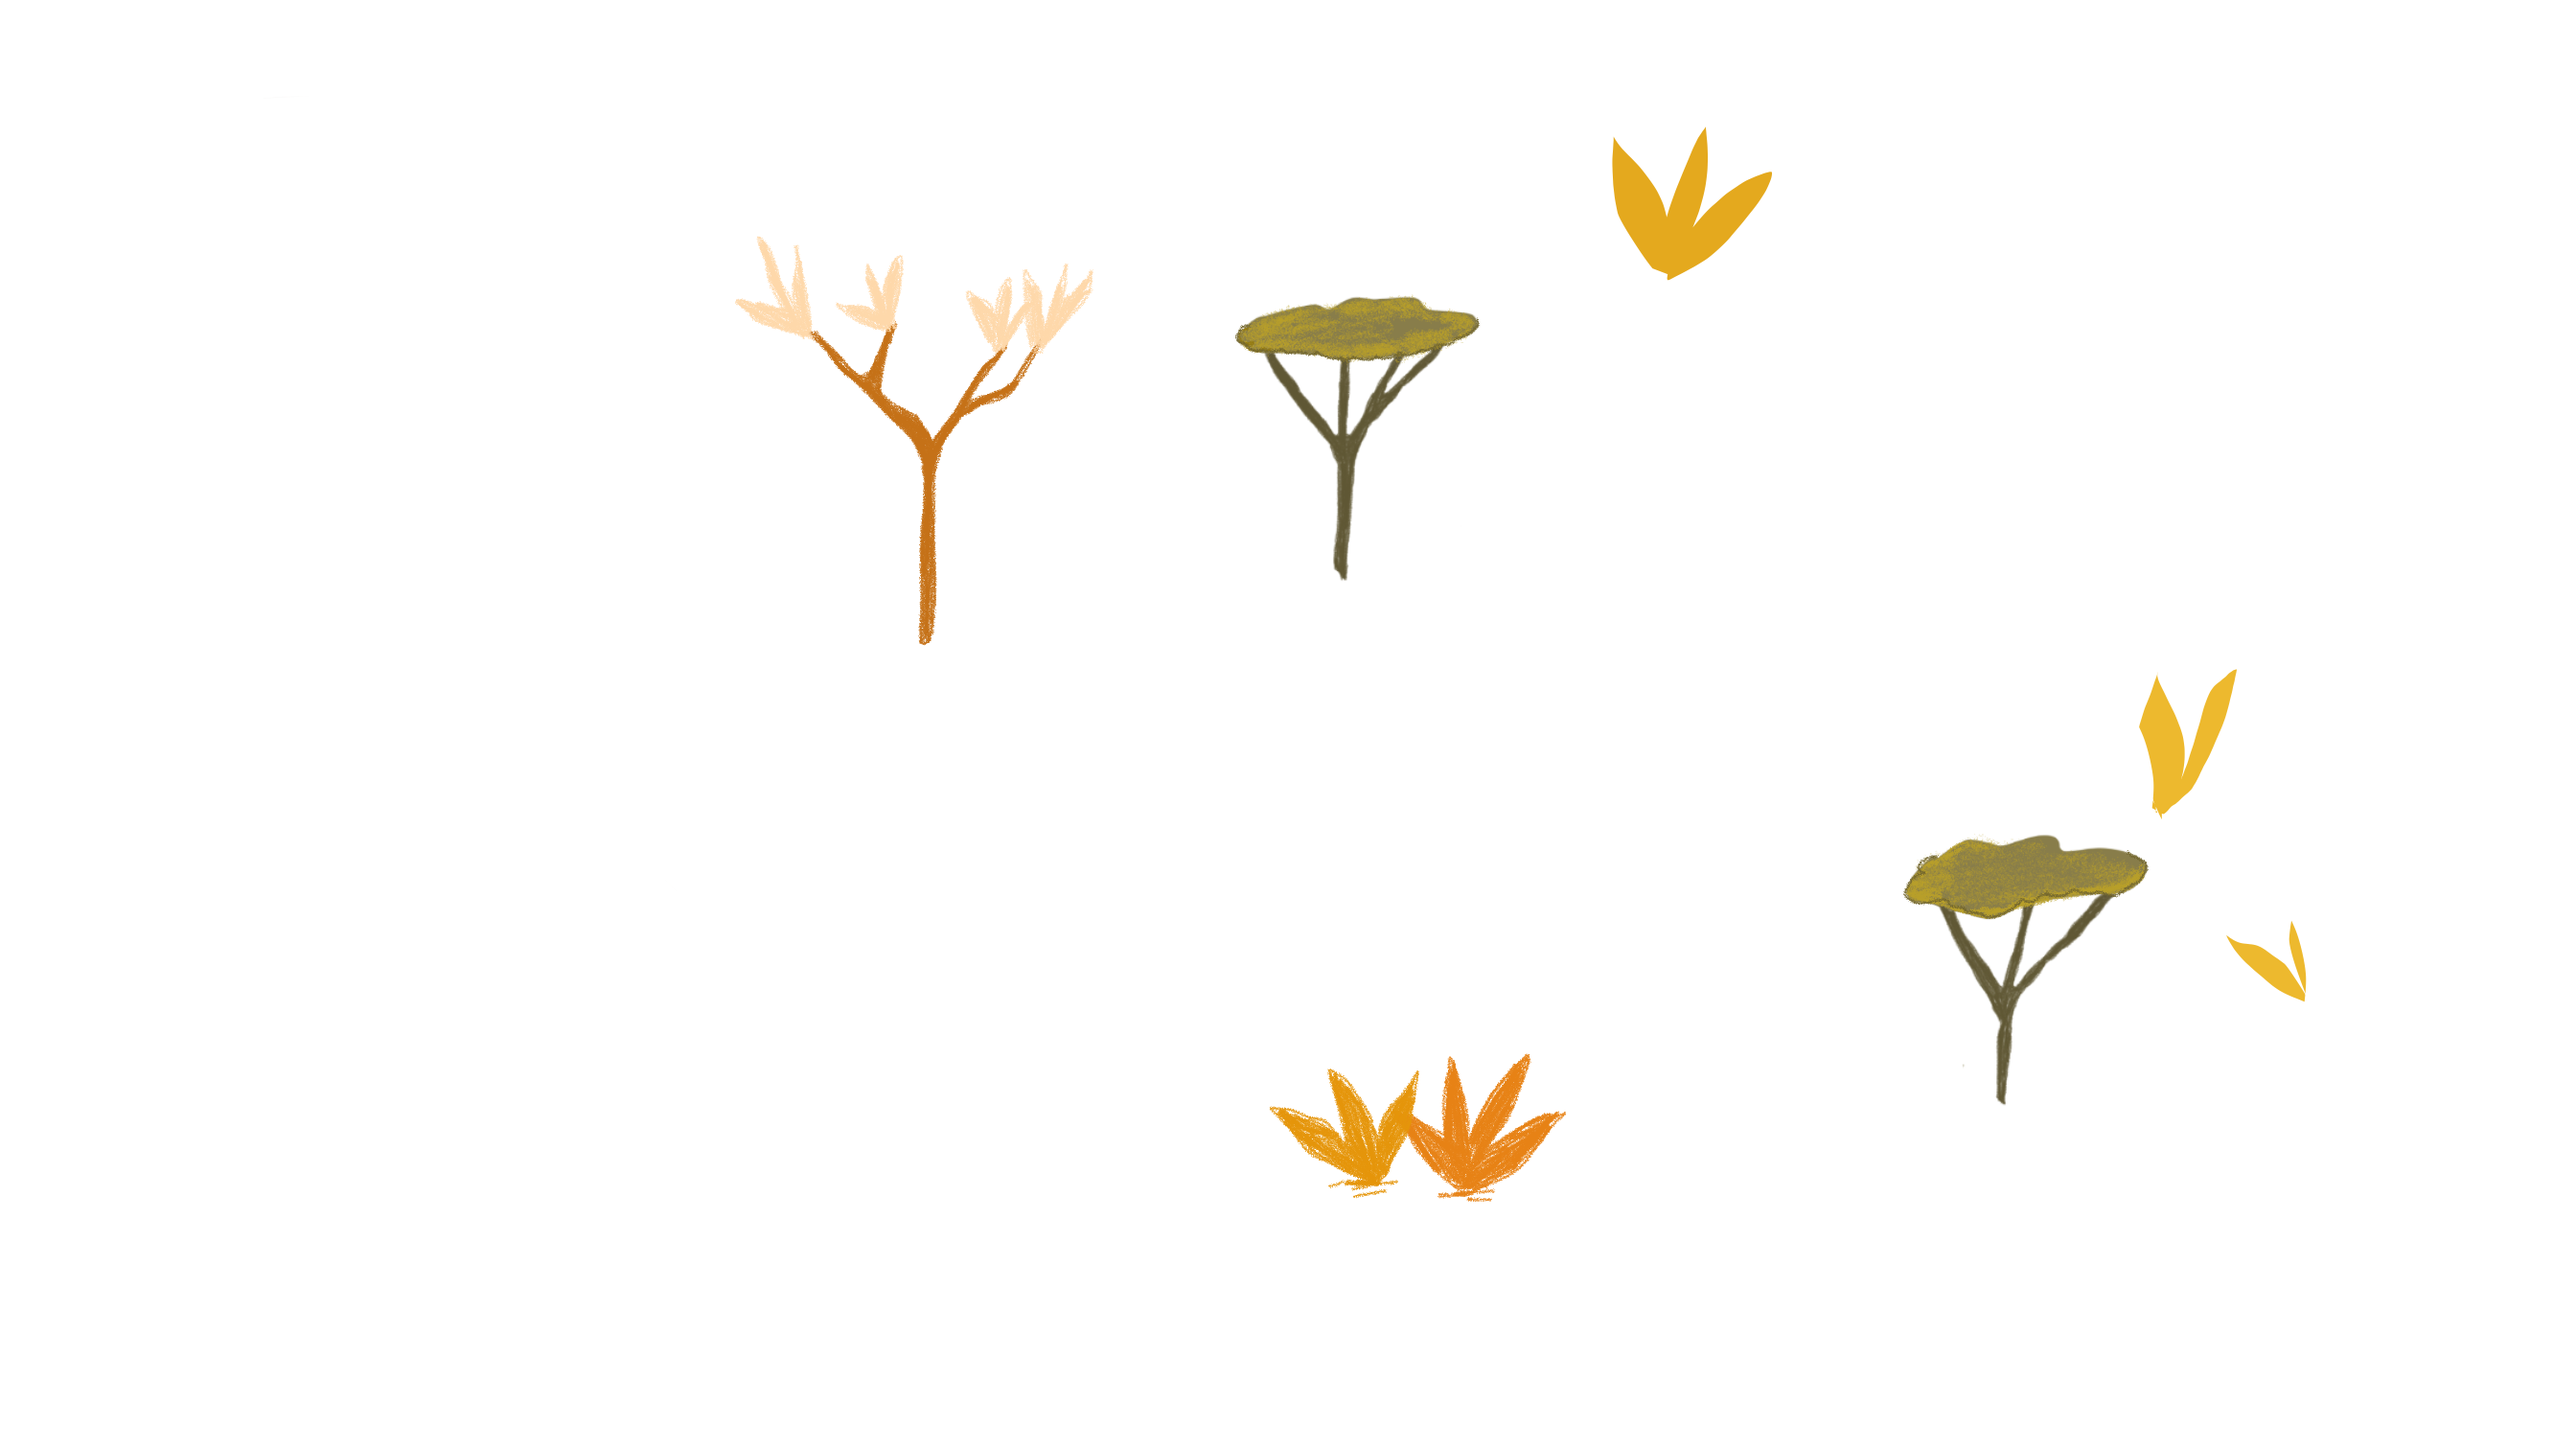
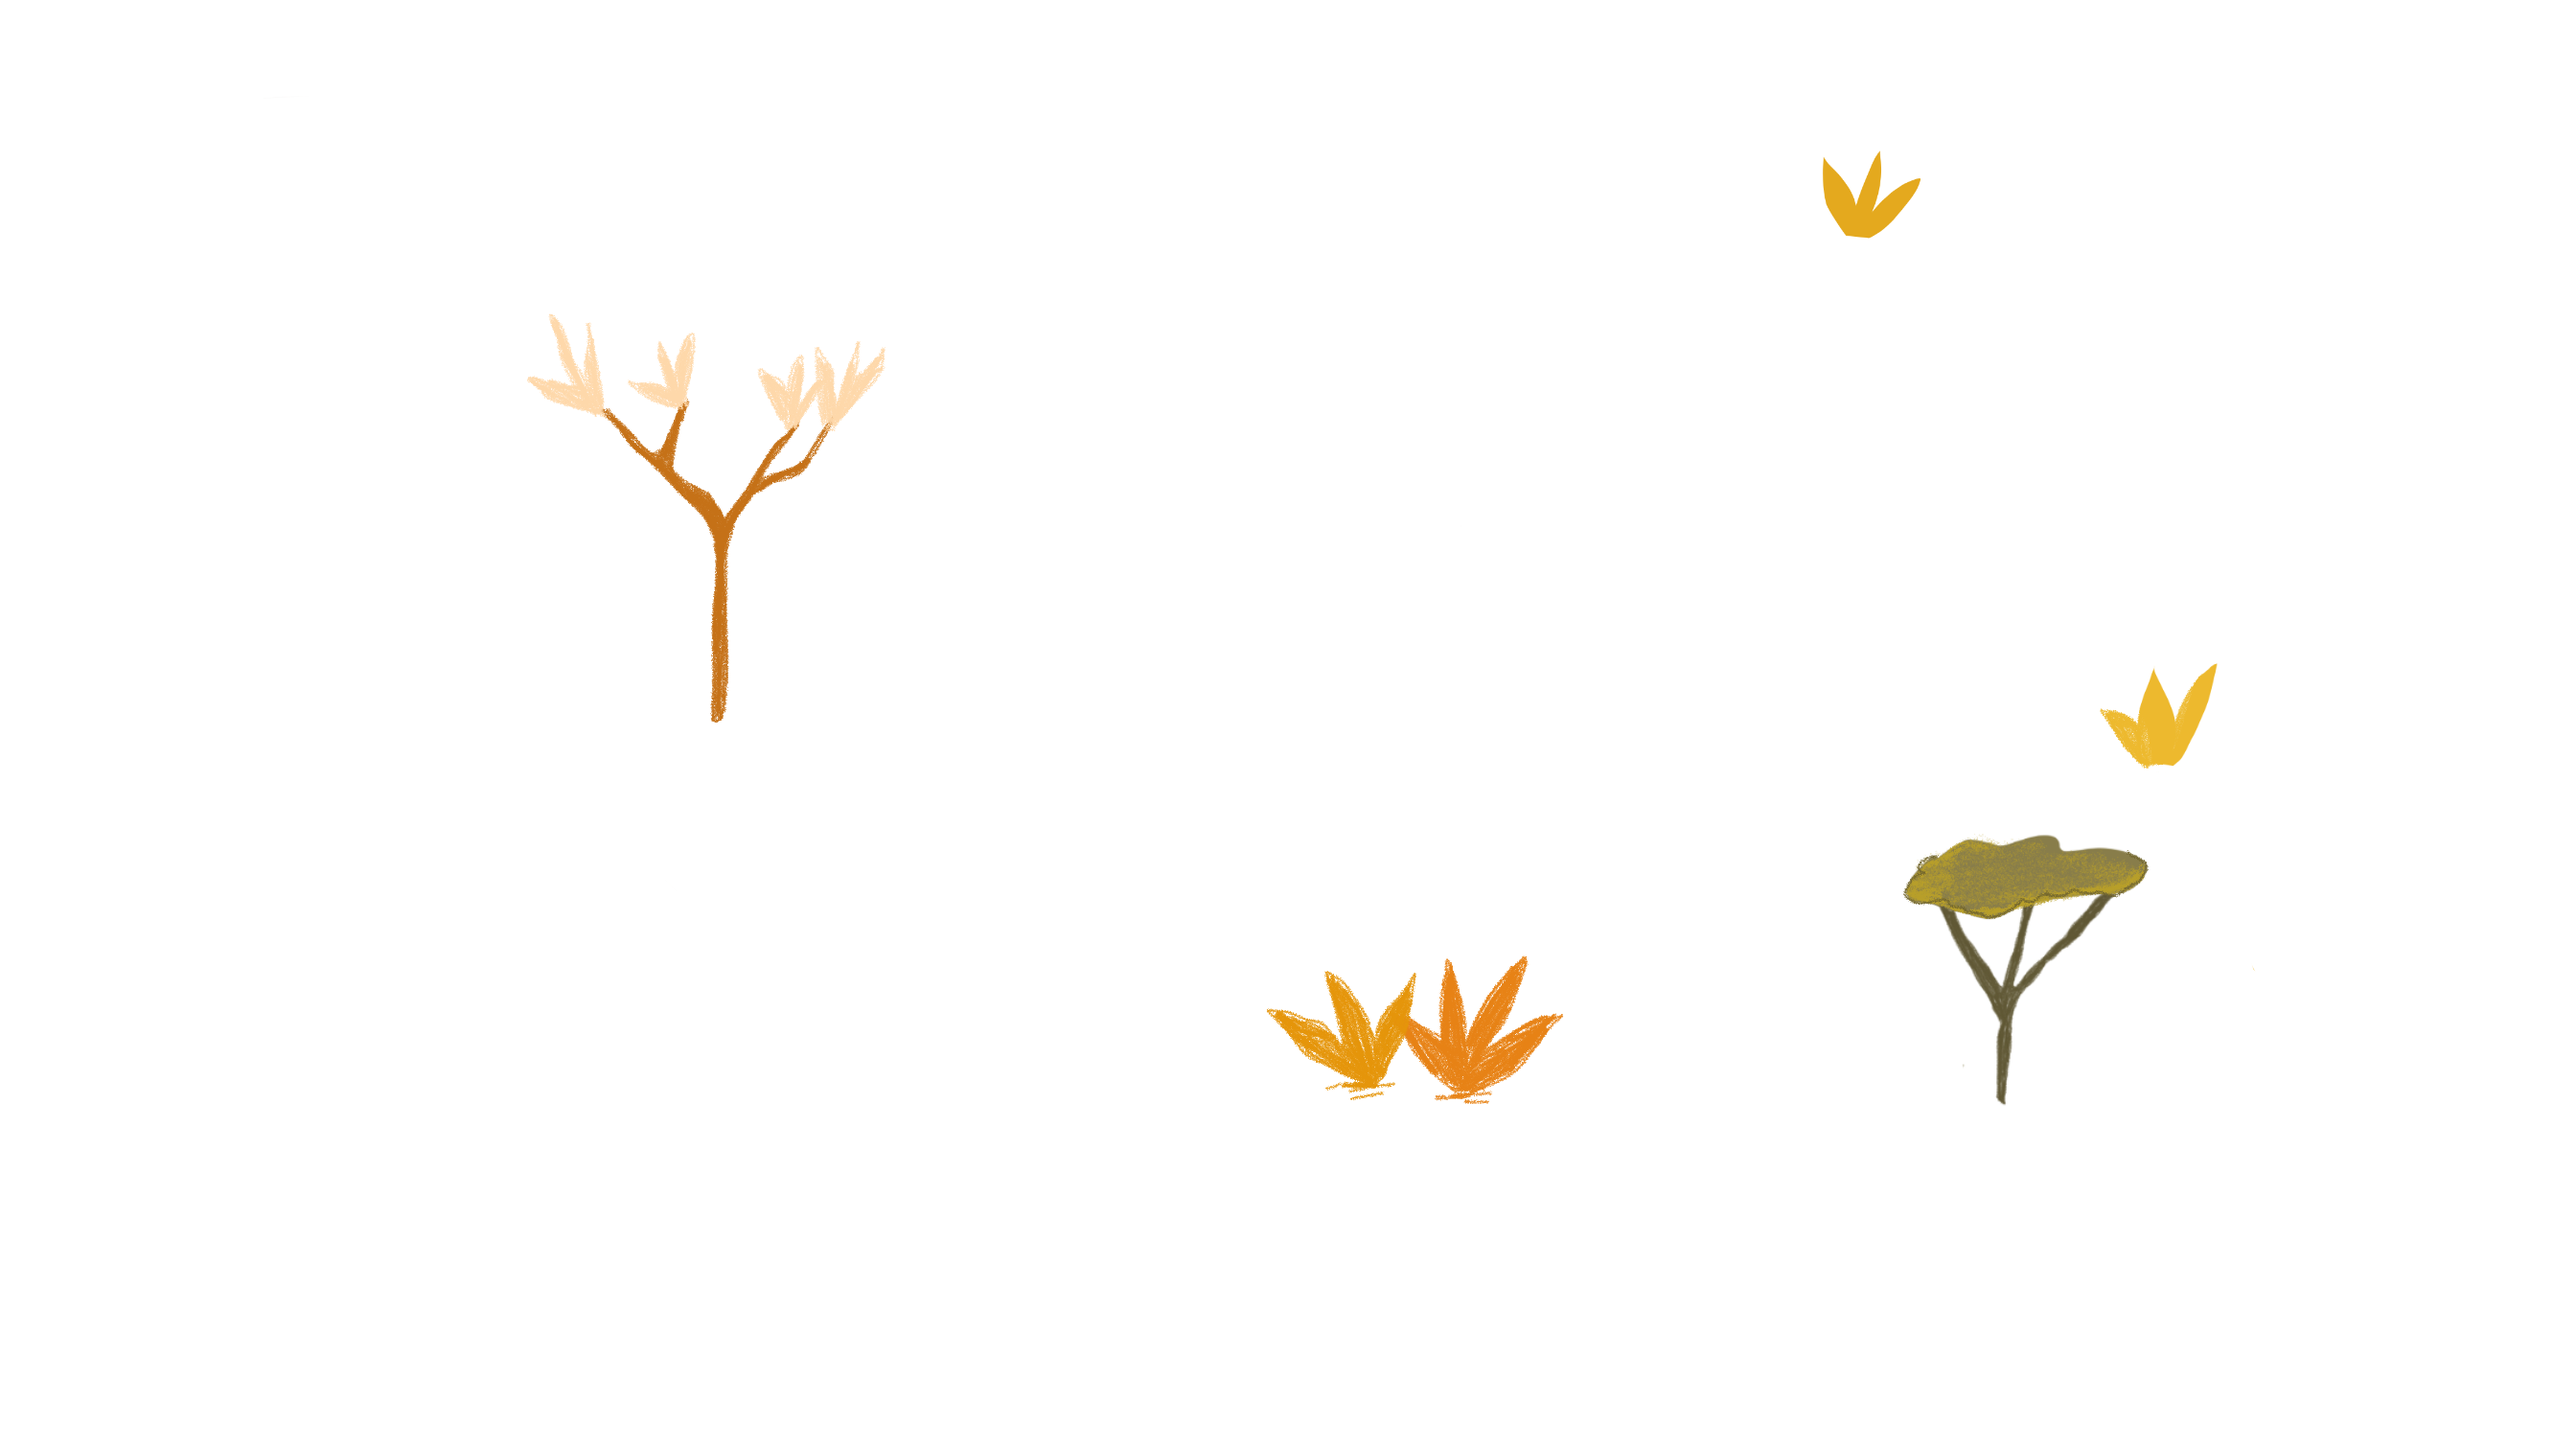
Alter layer

diff --git a/src/game/events/tutorial/index.js b/src/game/events/tutorial/index.js
@@ -19,12 +19,15 @@ export default {
         this.roadPolylines = [
             // 第一條折線
             [
-                { x: 252, y: 136 },
-                { x: 782, y: 227 },
-                { x: 1025, y: 318 },
-                { x: 1223, y: 460 }
+                { x: 584, y: 188 }, 
+                { x: 719, y: 218 }
             ],
-            // 第二條獨立折線
+            // 第二條折線
+            [
+                { x: 845, y: 251 },
+                { x: 971, y: 293 }
+            ],
+            // 第三條獨立折線
             [
                 { x: 1949, y: 450 },
                 { x: 1644, y: 713 },
@@ -61,7 +64,7 @@ export default {
 
 
         // Bush compound
-        this.bushCompound02 = scene.physics.add.sprite(631, 225, 'bush_compound_02').setDepth(105);
+        // this.bushCompound02 = scene.physics.add.sprite(631, 225, 'bush_compound_02').setDepth(105);
         scene.physics.add.sprite(1560, 110, 'bush_compound_01').setDepth(1);
         this.bushCompound04 = scene.physics.add.sprite(1350, 905, 'bush_compound_04').setDepth(105);
 
@@ -277,7 +280,7 @@ export default {
 
         ];  
         this.hardBushes = hardBushPositions.map(({x, y, scale})=> {
-            const bush = scene.physics.add.sprite(x, y, 'bush_02');
+            const bush = scene.physics.add.sprite(x, y, 'bush_02').setDepth(0);
             bush.body.setImmovable(true);
             if(scale){
                 bush.setScale(scale);

diff --git a/src/game/scenes/Overworld.js b/src/game/scenes/Overworld.js
@@ -66,13 +66,13 @@ export class Overworld extends Scene
 
         // 拼接四張樹木
         // 左上
-        this.add.image(0, 0, 'trees_01').setOrigin(0,0);
+        this.add.image(0, 0, 'trees_01').setOrigin(0,0).setDepth(2);
         // 左下
-        this.add.image(0, worldHeight, 'trees_02').setOrigin(0, 1);
+        this.add.image(0, worldHeight - 50, 'trees_02').setOrigin(0, 1).setDepth(2);
         // 右上
-        this.add.image(worldWidth, 0, 'trees_03').setOrigin(1, 0);
+        this.add.image(worldWidth, -50, 'trees_03').setOrigin(1, 0).setDepth(2);
         // 右下
-        this.add.image(worldWidth, worldHeight, 'trees_04').setOrigin(1, 1)
+        this.add.image(worldWidth, worldHeight-50, 'trees_04').setOrigin(1, 1).setDepth(2);
 
         // 動態設定物理世界邊界 (Physics Bounds) 
         this.physics.world.setBounds(0, 0, worldWidth, worldHeight);
